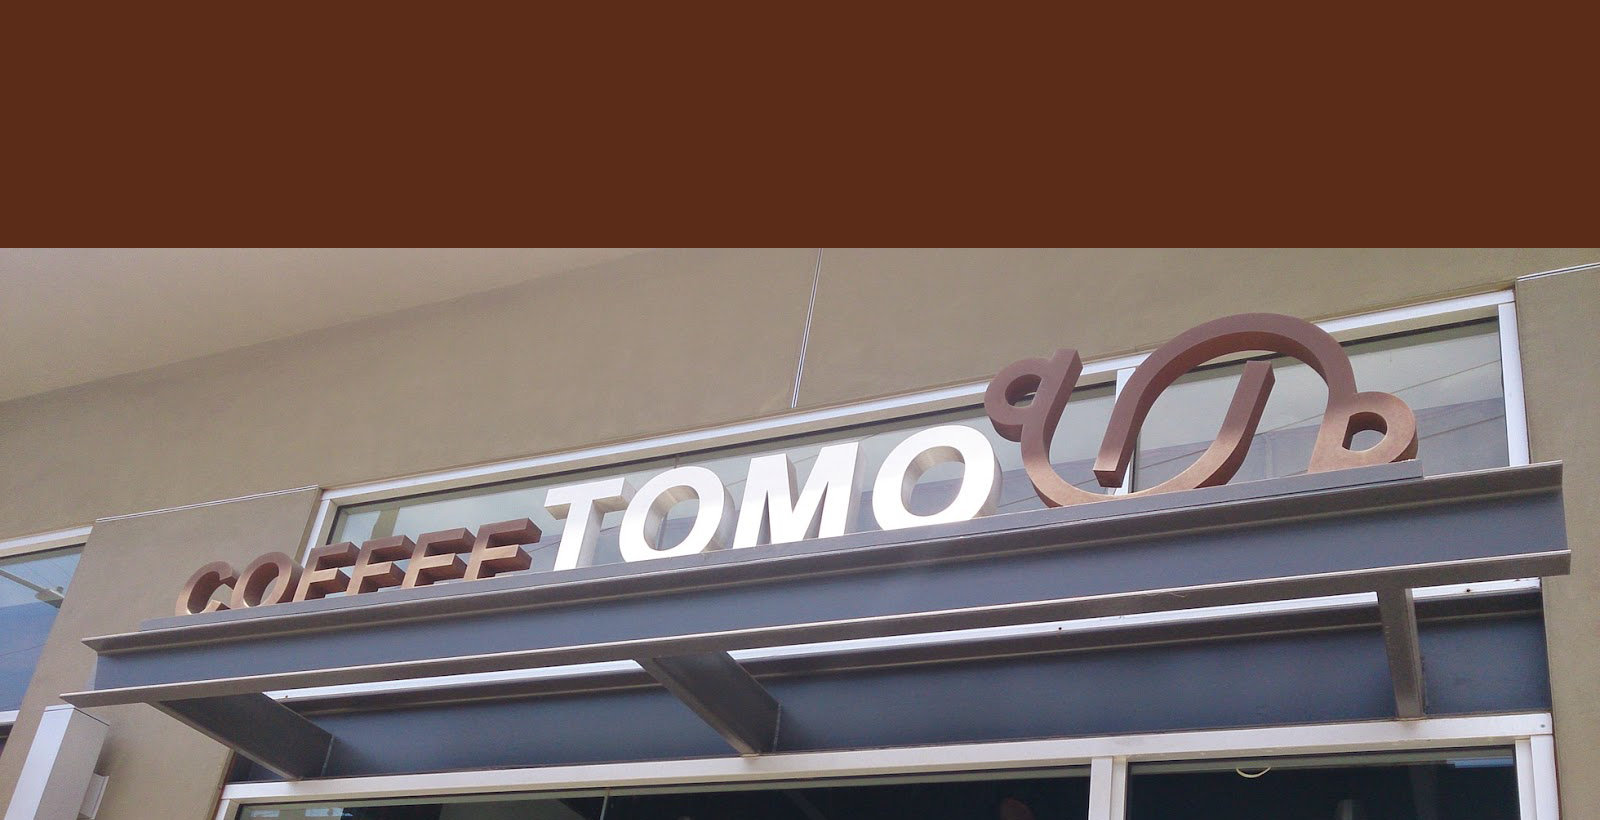
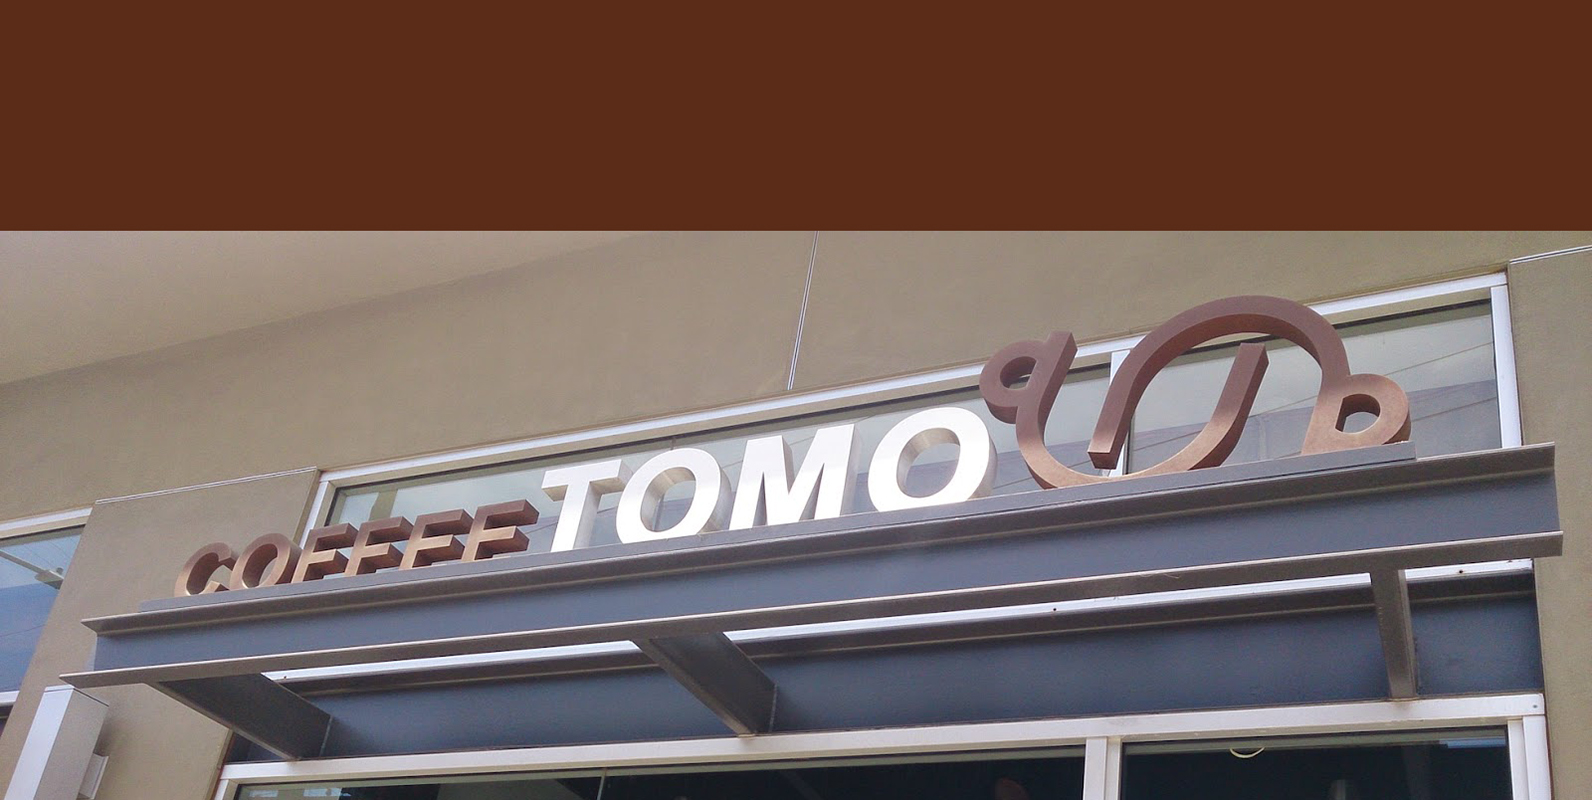
chchchch

diff --git a/location.html b/location.html
@@ -27,14 +27,11 @@
 </div>
 </header>
 
-<<<<<<< HEAD
-   <img class="tomo" src="https://scontent-lga3-1.xx.fbcdn.net/hphotos-xft1/t31.0-8/12314592_561514834007795_8088649113832289109_o.jpg">
+   <img class="tomo" src="https://raw.githubusercontent.com/liapark/project3/fc8832d327866ba72b4f8453c2f2fbb205b571d7/img/DSC_0457_sml-2.jpg">
   <div class="welcome">
     <h1>LOCATION</h1>
     <p class="line2"> </p>
-   
-=======
-  
+
   <div class="welcome">
     <h1><br><br><br>LOCATION</h1>
     <p class="line2"> </p>
